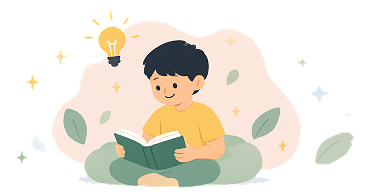
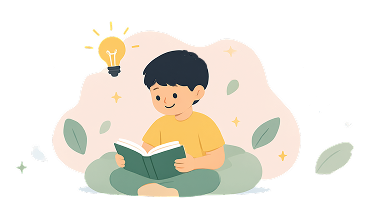
on boarding

diff --git a/apps/mobile/kawan_tumbuh/lib/onboarding_screen.dart b/apps/mobile/kawan_tumbuh/lib/onboarding_screen.dart
@@ -19,11 +19,15 @@ class _OnboardingScreenState extends State<OnboardingScreen> {
       'title': 'Tumbuh Bersama\ndi Setiap Langkahnya',
       'subtitle': 'Kenali potensi dan stimulasi tumbuh\nkembangnya sejak dini',
     },
-    // Tambah halaman onboarding lainnya di sini nanti
     {
       'image': 'assets/images/ob1_illustration.png',
-      'title': 'Pantau Perkembangan\nSi Kecil',
-      'subtitle': 'Catat dan pantau setiap milestone\ntumbuh kembang anak Anda',
+      'title': 'Pantau Perkembangan\nLewat Bermain',
+      'subtitle': 'Kenali gaya belajar si kecil lewat\npermainan interaktif',
+    },
+    {
+      'image': 'assets/images/ob1_illustration.png',
+      'title': 'Dampingi Si Kecil Tumbuh\nPercaya Diri',
+      'subtitle': 'Dapatkan panduan stimulasi harian\nsesuai kebutuhan unik si kecil',
     },
   ];
 
@@ -35,6 +39,15 @@ class _OnboardingScreenState extends State<OnboardingScreen> {
       );
     } else {
       _goToHome();
+    }
+  }
+
+  void _onBack() {
+    if (_currentPage > 0) {
+      _pageController.previousPage(
+        duration: const Duration(milliseconds: 350),
+        curve: Curves.easeInOut,
+      );
     }
   }
 
@@ -50,15 +63,37 @@ class _OnboardingScreenState extends State<OnboardingScreen> {
 
   @override
   Widget build(BuildContext context) {
+    final bool isFirst = _currentPage == 0;
+    final bool isLast = _currentPage == _pages.length - 1;
+
     return Scaffold(
       backgroundColor: const Color(0xFFFFCECD),
       body: SafeArea(
         child: Column(
           children: [
+            // ── Top bar: tombol back (hanya OB 2 & 3) ─────────────────
+            SizedBox(
+              height: 48,
+              child: Align(
+                alignment: Alignment.centerLeft,
+                child: isFirst
+                    ? const SizedBox.shrink()
+                    : IconButton(
+                        onPressed: _onBack,
+                        icon: const Icon(
+                          Icons.chevron_left,
+                          size: 28,
+                          color: Color(0xFF4A4A4A),
+                        ),
+                      ),
+              ),
+            ),
+
             // ── PageView ──────────────────────────────────────────────
             Expanded(
               child: PageView.builder(
                 controller: _pageController,
+                physics: const NeverScrollableScrollPhysics(),
                 itemCount: _pages.length,
                 onPageChanged: (index) {
                   setState(() => _currentPage = index);
@@ -85,17 +120,17 @@ class _OnboardingScreenState extends State<OnboardingScreen> {
               ),
             ),
 
-            // ── Bottom Nav: Skip / Next ────────────────────────────────
+            // ── Bottom Nav: Lewati / Lanjut|Mulai ─────────────────────
             Padding(
               padding: const EdgeInsets.symmetric(horizontal: 32, vertical: 20),
               child: Row(
                 mainAxisAlignment: MainAxisAlignment.spaceBetween,
                 children: [
-                  // Skip
+                  // Lewati
                   GestureDetector(
                     onTap: _goToHome,
                     child: Text(
-                      'Skip',
+                      'Lewati',
                       style: GoogleFonts.quicksand(
                         fontSize: 16,
                         fontWeight: FontWeight.w600,
@@ -104,13 +139,13 @@ class _OnboardingScreenState extends State<OnboardingScreen> {
                     ),
                   ),
 
-                  // Next →
+                  // Lanjut → / Mulai →
                   GestureDetector(
                     onTap: _onNext,
                     child: Row(
                       children: [
                         Text(
-                          'Next',
+                          isLast ? 'Mulai' : 'Lanjut',
                           style: GoogleFonts.quicksand(
                             fontSize: 16,
                             fontWeight: FontWeight.w600,
@@ -171,7 +206,7 @@ class _OnboardingPage extends StatelessWidget {
             title,
             textAlign: TextAlign.center,
             style: GoogleFonts.quicksand(
-              fontSize: 24,
+              fontSize: 20,
               fontWeight: FontWeight.w700,
               color: const Color(0xFF2D2D2D),
               height: 1.35,
@@ -221,3 +256,7 @@ class _DotIndicator extends StatelessWidget {
     );
   }
 }
+
+
+
+

diff --git a/apps/mobile/kawan_tumbuh/lib/splash_screen.dart b/apps/mobile/kawan_tumbuh/lib/splash_screen.dart
@@ -84,7 +84,7 @@ class _SplashScreenState extends State<SplashScreen>
   @override
   Widget build(BuildContext context) {
     return Scaffold(
-      backgroundColor: const Color(0xFFF5F0E8),
+      backgroundColor: const Color(0xFFFFFFFF),
       body: Center(
         child: Column(
           mainAxisAlignment: MainAxisAlignment.center,
